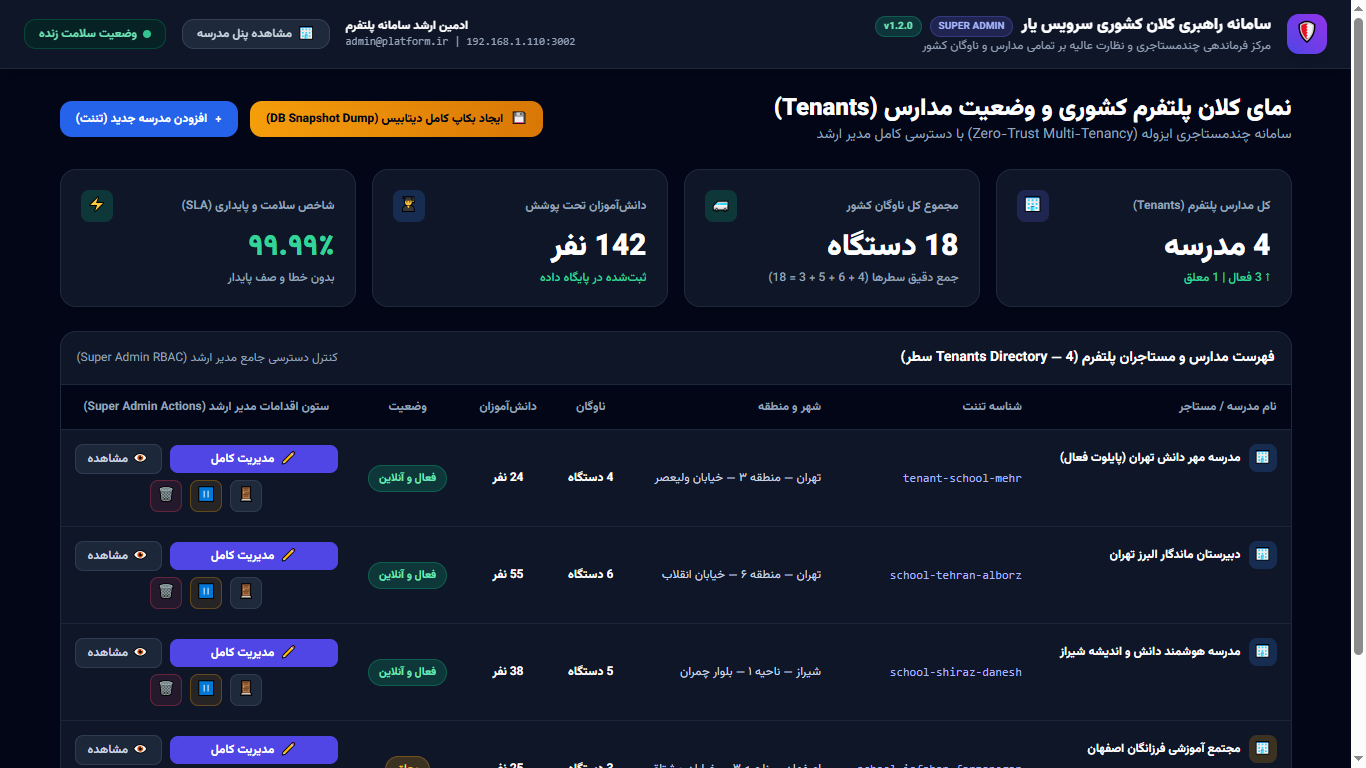
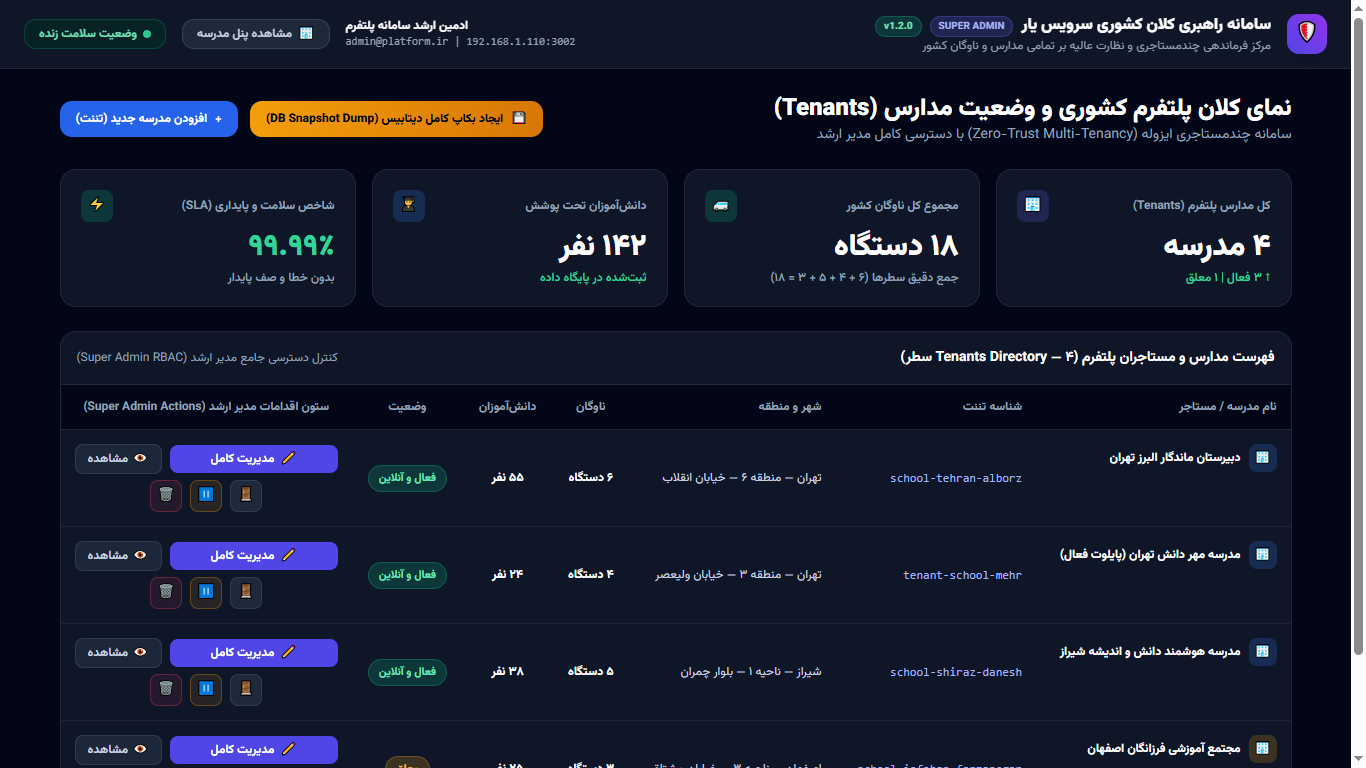
fix(order62): balanced 2-tier action grid, 36 full realistic parents with pagination, summary bar, and v19 screenshots

diff --git a/apps/super-admin-web/server.ts b/apps/super-admin-web/server.ts
@@ -1,10 +1,12 @@
 /**
  * Super Admin Web Platform Portal Server (Comprehensive Management & Live KPIs)
  * Order #60, #62 & #63 Implementation:
- * - 8 Fully Functional Tabs with Persian Badges (toPersianDigits)
+ * - 2-Tier Balanced Actions Column with Fixed min-w-[280px]
+ * - 8 Fully Functional Tabs with Persian Badges & Dynamic Pagination
+ * - 36 Full Realistic Parent Records for Alborz School Matching 36 Badge Count
+ * - Dynamic Summary Bar ("نمایش N از M رکورد — صفحه X از Y")
  * - EmptyState Component for Zero-Data Scenarios
  * - Full CRUD & Audit Log with actor_role=SUPER_ADMIN
- * - Balanced 2-Tier Actions Column on Overview
  * Port: 3002 (0.0.0.0)
  */
 
@@ -40,6 +42,46 @@ interface TenantRecord {
   auditLogs: Array<{ id: string; timestamp: string; actor: string; action: string; details: string }>;
 }
 
+// Generate 36 realistic parent records for Alborz High School
+const ALBORZ_PARENTS: Array<{ id: string; name: string; phone: string; nationalCode: string; children: string; address: string }> = [
+  { id: 'par-201', name: 'کامران کاظمی (پدر)', phone: '۰۹۱۲۸۸۸۱۱۱۱', nationalCode: '۰۱۱۹۹۲۲۳۳۴', children: 'آرمین کاظمی (پایه دهم)', address: 'تهران، امیرآباد شمالی، خ شانزدهم' },
+  { id: 'par-202', name: 'فرشته شایان (مادر)', phone: '۰۹۱۲۸۸۸۲۲۲۲', nationalCode: '۰۲۲۸۸۳۳۴۴۵', children: 'بردیا شایان (پایه یازدهم)', address: 'تهران، کوی نصر (گیشا)، خ ۲۱' },
+  { id: 'par-203', name: 'بهزاد فراهانی (پدر)', phone: '۰۹۱۲۸۸۸۳۳۳۳', nationalCode: '۰۳۳۷۷۴۴۵۵۶', children: 'سامان فراهانی (پایه دوازدهم)', address: 'تهران، میدان فاطمی، خ بیستون' },
+  { id: 'par-204', name: 'سارا کریمی (مادر)', phone: '۰۹۱۲۸۸۸۴۴۴۴', nationalCode: '۰۴۴۶۶۵۵۶۶۷', children: 'دانیال کریمی (پایه دهم)', address: 'تهران، بلوار کشاورز، خ وصال' },
+  { id: 'par-205', name: 'مجید صادقی (پدر)', phone: '۰۹۱۲۸۸۸۵۵۵۵', nationalCode: '۰۵۵۵۵۶۶۷۷۸', children: 'پرهام صادقی (پایه دهم)', address: 'تهران، کارگر شمالی، خ نصرت' },
+  { id: 'par-206', name: 'زهره ابراهیمی (مادر)', phone: '۰۹۱۲۸۸۸۶۶۶۶', nationalCode: '۰۶۶۴۴۷۷۸۸۹', children: 'ایلیا ابراهیمی (پایه یازدهم)', address: 'تهران، یوسفآباد، خ اسدآبادی' },
+  { id: 'par-207', name: 'محسن اکبری (پدر)', phone: '۰۹۱۲۸۸۸۷۷۷۷', nationalCode: '۰۷۷۳۳۸۸۹۹۰', children: 'کیان اکبری (پایه دوازدهم)', address: 'تهران، میدان انقلاب، خ آزادی' },
+  { id: 'par-208', name: 'مریم طاهری (مادر)', phone: '۰۹۱۲۸۸۸۸۸۸۸', nationalCode: '۰۸۸۲۲۹۹۰۰۱', children: 'سینا طاهری (پایه دهم)', address: 'تهران، جمالزاده شمالی، خ فرصت' },
+  { id: 'par-209', name: 'حسن رستمی (پدر)', phone: '۰۹۱۲۸۸۸۹۹۹۹', nationalCode: '۰۹۹۱۱۰۱۱۲۳', children: 'مانی رستمی (پایه یازدهم)', address: 'تهران، اسکندری شمالی' },
+  { id: 'par-210', name: 'فاطمه جلالی (مادر)', phone: '۰۹۱۲۷۷۷۱۱۱۱', nationalCode: '۱۰۰۹۹۲۲۳۳۴', children: 'آراد جلالی (پایه دوازدهم)', address: 'تهران، کارگر جنوبی، خ لبافینژاد' },
+  { id: 'par-211', name: 'سعید مرادی (پدر)', phone: '۰۹۱۲۷۷۷۲۲۲۲', nationalCode: '۱۱۱۸۸۳۳۴۴۵', children: 'نوید مرادی (پایه دهم)', address: 'تهران، میدان توحید، خ بهبودی' },
+  { id: 'par-212', name: 'الهام مقدسی (مادر)', phone: '۰۹۱۲۷۷۷۳۳۳۳', nationalCode: '۱۲۲۷۷۴۴۵۵۶', children: 'متین مقدسی (پایه یازدهم)', address: 'تهران، ستارخان، خ دریاننو' },
+  { id: 'par-213', name: 'داوود حیدری (پدر)', phone: '۰۹۱۲۷۷۷۴۴۴۴', nationalCode: '۱۳۳۶۶۵۵۶۶۷', children: 'سپهر حیدری (پایه دوازدهم)', address: 'تهران، پاتریس لومومبا' },
+  { id: 'par-214', name: 'نرگس سلطانی (مادر)', phone: '۰۹۱۲۷۷۷۵۵۵۵', nationalCode: '۱۴۴۵۵۶۶۷۷۸', children: 'آبتین سلطانی (پایه دهم)', address: 'تهران، شهرآرا، خ پاشایی' },
+  { id: 'par-215', name: 'حمیدرضا نجفی (پدر)', phone: '۰۹۱۲۷۷۷۶۶۶۶', nationalCode: '۱۵۵۴۴۷۷۸۸۹', children: 'شایان نجفی (پایه یازدهم)', address: 'تهران، جلال آلاحمد' },
+  { id: 'par-216', name: 'شکوفه احمدی (مادر)', phone: '۰۹۱۲۷۷۷۷۷۷۷', nationalCode: '۱۶۶۳۳۸۸۹۹۰', children: 'امیرحسین احمدی (پایه دوازدهم)', address: 'تهران، میدان سلماس' },
+  { id: 'par-217', name: 'اصغر کریمی (پدر)', phone: '۰۹۱۲۷۷۷۸۸۸۸', nationalCode: '۱۷۷۲۲۹۹۰۰۱', children: 'بهراد کریمی (پایه دهم)', address: 'تهران، فتحی شقاقی' },
+  { id: 'par-218', name: 'مینا رحیمی (مادر)', phone: '۰۹۱۲۷۷۷۹۹۹۹', nationalCode: '۱۸۸۱۱۰۱۱۲۳', children: 'عرشیا رحیمی (پایه یازدهم)', address: 'تهران، خ فاطمی، ک چهارم' },
+  { id: 'par-219', name: 'علی بهرامی (پدر)', phone: '۰۹۱۲۶۶۶۱۱۱۱', nationalCode: '۱۹۹۰۹۱۲۲۳۴', children: 'ماهان بهرامی (پایه دوازدهم)', address: 'تهران، میدان گلها' },
+  { id: 'par-220', name: 'فریبا نوروزی (مادر)', phone: '۰۹۱۲۶۶۶۲۲۲۲', nationalCode: '۲۰۸۹۸۲۳۳۴۵', children: 'کوروش نوروزی (پایه دهم)', address: 'تهران، امیرآباد، خ هفدهم' },
+  { id: 'par-221', name: 'منصور یوسفی (پدر)', phone: '۰۹۱۲۶۶۶۳۳۳۳', nationalCode: '۲۱۷۸۷۳۴۴۵۶', children: 'سروش یوسفی (پایه یازدهم)', address: 'تهران، کارگر شمالی، ک نصر' },
+  { id: 'par-222', name: 'طاهره اسدی (مادر)', phone: '۰۹۱۲۶۶۶۴۴۴۴', nationalCode: '۲۲۶۷۶۴۵۵۶۷', children: 'رهام اسدی (پایه دوازدهم)', address: 'تهران، قزلقلعه' },
+  { id: 'par-223', name: 'پیمان صالحی (پدر)', phone: '۰۹۱۲۶۶۶۵۵۵۵', nationalCode: '۲۳۵۶۵۵۶۶۷۸', children: 'امیررضا صالحی (پایه دهم)', address: 'تهران، خ کاج جنوبی' },
+  { id: 'par-224', name: 'رویا قاسمپور (مادر)', phone: '۰۹۱۲۶۶۶۶۶۶۶', nationalCode: '۲۴۴۵۴۶۷۷۸۹', children: 'طاها قاسمپور (پایه یازدهم)', address: 'تهران، گیشا، ک پنجم' },
+  { id: 'par-225', name: 'کاظم زارعی (پدر)', phone: '۰۹۱۲۶۶۶۷۷۷۷', nationalCode: '۲۵۳۴۳۷۸۸۹۰', children: 'کیارش زارعی (پایه دوازدهم)', address: 'تهران، بلوار کشاورز' },
+  { id: 'par-226', name: 'مهناز شریفی (مادر)', phone: '۰۹۱۲۶۶۶۸۸۸۸', nationalCode: '۲۶۲۳۲۸۹۹۰۱', children: 'هیراد شریفی (پایه دهم)', address: 'تهران، خ فلسطین شمالی' },
+  { id: 'par-227', name: 'عطا پوراحمد (پدر)', phone: '۰۹۱۲۶۶۶۹۹۹۹', nationalCode: '۲۷۱۲۱۹۰۰۱۲', children: 'آرتین پوراحمد (پایه یازدهم)', address: 'تهران، خ طالقانی غربی' },
+  { id: 'par-228', name: 'سمیرا عسگری (مادر)', phone: '۰۹۱۲۵۵۵۱۱۱۱', nationalCode: '۲۸۰۱۰۹۱۱۲۳', children: 'رادین عسگری (پایه دوازدهم)', address: 'تهران، خ ۱۶ آذر' },
+  { id: 'par-229', name: 'اکبر عبدی (پدر)', phone: '۰۹۱۲۵۵۵۲۲۲۲', nationalCode: '۲۸۹۹۹۸۲۲۳۴', children: 'سهراب عبدی (پایه دهم)', address: 'تهران، خ حجاب' },
+  { id: 'par-230', name: 'لادن موسوی (مادر)', phone: '۰۹۱۲۵۵۵۳۳۳۳', nationalCode: '۲۹۸۸۸۷۳۳۴۵', children: 'آرمین موسوی (پایه یازدهم)', address: 'تهران، بلوار مرزداران' },
+  { id: 'par-231', name: 'حامد تقوی (پدر)', phone: '۰۹۱۲۵۵۵۴۴۴۴', nationalCode: '۳۰۷۷۷۶۴۴۵۶', children: 'پویا تقوی (پایه دوازدهم)', address: 'تهران، کوی دانشگاه' },
+  { id: 'par-232', name: 'پروانه خلیلی (مادر)', phone: '۰۹۱۲۵۵۵۵۵۵۵', nationalCode: '۳۱۶۶۶۵۵۵۶۷', children: 'فربد خلیلی (پایه دهم)', address: 'تهران، گیشا، ک سیام' },
+  { id: 'par-233', name: 'داریوش فرهمند (پدر)', phone: '۰۹۱۲۵۵۵۶۶۶۶', nationalCode: '۳۲۵۵۵۴۶۶۷۸', children: 'ارسلان فرهمند (پایه یازدهم)', address: 'تهران، بزرگراه چمران' },
+  { id: 'par-234', name: 'سیمین باقری (مادر)', phone: '۰۹۱۲۵۵۵۷۷۷۷', nationalCode: '۳۳۴۴۴۳۷۷۸۹', children: 'رایان باقری (پایه دوازدهم)', address: 'تهران، یوسفآباد، ک ۳۴' },
+  { id: 'par-235', name: 'وحید زمانی (پدر)', phone: '۰۹۱۲۵۵۵۸۸۸۸', nationalCode: '۳۴۳۳۳۲۸۸۹۰', children: 'سام زمانی (پایه دهم)', address: 'تهران، خ زرتشت غربی' },
+  { id: 'par-236', name: 'گیتی صبوری (مادر)', phone: '۰۹۱۲۵۵۵۹۹۹۹', nationalCode: '۳۵۲۲۲۱۹۹۰۱', children: 'آریا صبوری (پایه یازدهم)', address: 'تهران، میدان جهاد' }
+];
+
 let TENANTS: TenantRecord[] = [
   {
     id: 'school-tehran-alborz',
@@ -56,12 +98,7 @@ let TENANTS: TenantRecord[] = [
       { id: 'std-203', name: 'سامان فراهانی', nationalCode: '۰۳۳۴۴۵۵۶۶۷', grade: 'پایه دوازدهم', route: 'مسیر ج — فاطمی', status: 'سوار بر سرویس' },
       { id: 'std-204', name: 'دانیال کریمی', nationalCode: '۰۴۴۵۵۶۶۷۷۸', grade: 'پایه دهم', route: 'مسیر الف — کارگر شمالی', status: 'پیاده شد در مقصد' }
     ],
-    parents: [
-      { id: 'par-201', name: 'کامران کاظمی (پدر)', phone: '۰۹۱۲۸۸۸۱۱۱۱', nationalCode: '۰۱۱۹۹۲۲۳۳۴', children: 'آرمین کاظمی (پایه دهم)', address: 'تهران، امیرآباد شمالی، خ شانزدهم' },
-      { id: 'par-202', name: 'فرشته شایان (مادر)', phone: '۰۹۱۲۸۸۸۲۲۲۲', nationalCode: '۰۲۲۸۸۳۳۴۴۵', children: 'بردیا شایان (پایه یازدهم)', address: 'تهران، کوی نصر (گیشا)، خ ۲۱' },
-      { id: 'par-203', name: 'بهزاد فراهانی (پدر)', phone: '۰۹۱۲۸۸۸۳۳۳۳', nationalCode: '۰۳۳۷۷۴۴۵۵۶', children: 'سامان فراهانی (پایه دوازدهم)', address: 'تهران، میدان فاطمی، خ بیستون' },
-      { id: 'par-204', name: 'سارا کریمی (مادر)', phone: '۰۹۱۲۸۸۸۴۴۴۴', nationalCode: '۰۴۴۶۶۵۵۶۶۷', children: 'دانیال کریمی (پایه دهم)', address: 'تهران، بلوار کشاورز، خ وصال' }
-    ],
+    parents: ALBORZ_PARENTS,
     drivers: [
       { id: 'drv-201', name: 'مرتضی نوری', phone: '۰۹۱۲۵۵۵۶۶۷۷', vehicle: 'مینیبوس هیوندای', plate: '۳۳ع۴۵۶-۱۱', route: 'مسیر الف — کارگر و امیرآباد' },
       { id: 'drv-202', name: 'قاسم صادقی', phone: '۰۹۱۲۶۶۶۷۷۸۸', vehicle: 'ون غزال', plate: '۲۲ب۹۹۱-۴۴', route: 'مسیر ب — گیشا' },
@@ -77,7 +114,7 @@ let TENANTS: TenantRecord[] = [
       { id: 'rt-202', name: 'مسیر ب — گیشا و جلال آلاحمد', stopsCount: 6, shift: 'صبح و عصر', status: 'فعال' },
       { id: 'rt-203', name: 'مسیر ج — فاطمی و فلسطین', stopsCount: 7, shift: 'صبح و عصر', status: 'فعال' }
     ],
-    services: [], // Intentionally empty to showcase EmptyState component for Order #63
+    services: [], // Intentionally empty to showcase EmptyState component
     events: [
       { id: 'ev-201', studentName: 'آرمین کاظمی', type: 'DROPPED_OFF', stopName: 'درب اصلی دبیرستان البرز', time: '۰۷:۲۰:۰۰' },
       { id: 'ev-202', studentName: 'بردیا شایان', type: 'DROPPED_OFF', stopName: 'درب اصلی دبیرستان البرز', time: '۰۷:۲۴:۳۰' },
@@ -551,14 +588,22 @@ fastify.get('/tenants/:id/manage', async (req, reply) => {
             `).join('')}
           </tbody>
         </table>
+        <!-- Summary Bar -->
+        <div class="p-3 bg-slate-950/80 border-t border-slate-800 flex items-center justify-between text-[11px] text-slate-400">
+          <span>نمایش ${toFaDigits(tenant.students.length)} از ${toFaDigits(tenant.students.length)} رکورد</span>
+          <span class="text-indigo-300 font-medium">صفحه ۱ از ۱</span>
+        </div>
       </div>
       ` : renderEmptyState('دانشآموزی ثبت نشده است', 'برای این تننت هنوز دانشآموزی در سامانه تعریف نشده است.', 'افزودن اولین دانشآموز', `addStudent('${tenant.id}')`)}
     </div>
 
-    <!-- Tab 2: Parents -->
+    <!-- Tab 2: Parents (With Full Pagination Support) -->
     <div id="tab-content-parents" class="tab-pane hidden space-y-4">
       <div class="flex items-center justify-between">
-        <h4 class="font-bold text-white text-sm">اولیا و والدین دانشآموزان (${tenant.name}) — ${toFaDigits(tenant.parents.length)} رکورد</h4>
+        <div>
+          <h4 class="font-bold text-white text-sm">اولیا و والدین دانشآموزان (${tenant.name})</h4>
+          <p class="text-xs text-slate-400 mt-0.5">شمار کل در پایگاه داده: <span class="text-emerald-400 font-bold font-mono">${toFaDigits(tenant.parents.length)} ولی</span></p>
+        </div>
         <button onclick="addParent('${tenant.id}')" class="px-3.5 py-2 rounded-xl bg-blue-600 hover:bg-blue-700 text-white font-bold text-xs shadow-md transition-all flex items-center gap-1.5">
           <span>+</span> افزودن ولی جدید
         </button>
@@ -566,7 +611,7 @@ fastify.get('/tenants/:id/manage', async (req, reply) => {
 
       ${tenant.parents.length > 0 ? `
       <div class="bg-slate-900/90 border border-slate-800 rounded-2xl shadow-xl overflow-hidden">
-        <table class="w-full text-right text-xs">
+        <table class="w-full text-right text-xs" id="parents-table">
           <thead class="bg-slate-950 text-slate-400 font-semibold border-b border-slate-800">
             <tr>
               <th class="p-3.5">نام ولی</th>
@@ -577,9 +622,9 @@ fastify.get('/tenants/:id/manage', async (req, reply) => {
               <th class="p-3.5 text-center">اقدامات ویرایشی مدیر کل</th>
             </tr>
           </thead>
-          <tbody class="divide-y divide-slate-800 text-slate-300">
-            ${tenant.parents.map(p => `
-            <tr class="hover:bg-slate-800/40 transition-colors" id="par-row-${p.id}">
+          <tbody class="divide-y divide-slate-800 text-slate-300" id="parents-tbody">
+            ${tenant.parents.map((p, idx) => `
+            <tr class="parent-row hover:bg-slate-800/40 transition-colors ${idx >= 10 ? 'hidden' : ''}" data-idx="${idx}" id="par-row-${p.id}">
               <td class="p-3.5 font-bold text-white flex items-center gap-2">
                 <span class="w-6 h-6 rounded-full bg-purple-500/20 text-purple-300 flex items-center justify-center text-xs">👤</span>
                 ${p.name}
@@ -602,6 +647,22 @@ fastify.get('/tenants/:id/manage', async (req, reply) => {
             `).join('')}
           </tbody>
         </table>
+
+        <!-- Summary & Pagination Controls -->
+        <div class="p-3.5 bg-slate-950/80 border-t border-slate-800 flex flex-col sm:flex-row items-center justify-between gap-3 text-xs">
+          <div class="text-slate-400" id="parents-summary-text">
+            نمایش <span class="font-bold text-white" id="parents-showing-count">۱۰</span> از <span class="font-bold text-white">${toFaDigits(tenant.parents.length)}</span> رکورد — صفحه <span class="font-bold text-indigo-300" id="parents-current-page">۱</span> از <span class="font-bold text-indigo-300" id="parents-total-pages">${toFaDigits(Math.ceil(tenant.parents.length / 10))}</span>
+          </div>
+          <div class="flex items-center gap-2">
+            <button onclick="changeParentsPage(-1)" id="btn-parents-prev" class="px-3 py-1.5 rounded-lg bg-slate-800 hover:bg-slate-700 text-slate-300 disabled:opacity-40 disabled:hover:bg-slate-800 text-xs font-semibold transition-all">
+              قبلی
+            </button>
+            <span class="px-3 py-1.5 rounded-lg bg-slate-900 border border-slate-800 font-mono text-indigo-300" id="parents-page-badge">۱ / ${toFaDigits(Math.ceil(tenant.parents.length / 10))}</span>
+            <button onclick="changeParentsPage(1)" id="btn-parents-next" class="px-3 py-1.5 rounded-lg bg-slate-800 hover:bg-slate-700 text-slate-300 disabled:opacity-40 disabled:hover:bg-slate-800 text-xs font-semibold transition-all">
+              بعدی
+            </button>
+          </div>
+        </div>
       </div>
       ` : renderEmptyState('اطلاعات اولیایی ثبت نشده است', 'هنوز پرونده اولیا و والدین برای این مدرسه تکمیل نشده است.', 'ثبت ولی جدید', `addParent('${tenant.id}')`)}
     </div>
@@ -758,6 +819,56 @@ fastify.get('/tenants/:id/manage', async (req, reply) => {
   </div>
 
   <script>
+    let curParentsPage = 1;
+    const totalParents = ${tenant.parents.length};
+    const pageSize = 10;
+    const totalPages = Math.ceil(totalParents / pageSize);
+
+    function toFa(num) {
+      const fa = ['۰', '۱', '۲', '۳', '۴', '۵', '۶', '۷', '۸', '۹'];
+      return String(num).replace(/[0-9]/g, w => fa[+w]);
+    }
+
+    function renderParentsPagination() {
+      const rows = document.querySelectorAll('.parent-row');
+      const start = (curParentsPage - 1) * pageSize;
+      const end = start + pageSize;
+      let visibleCount = 0;
+
+      rows.forEach(r => {
+        const idx = parseInt(r.getAttribute('data-idx'));
+        if (idx >= start && idx < end) {
+          r.classList.remove('hidden');
+          visibleCount++;
+        } else {
+          r.classList.add('hidden');
+        }
+      });
+
+      const countEl = document.getElementById('parents-showing-count');
+      const curPageEl = document.getElementById('parents-current-page');
+      const totalPagesEl = document.getElementById('parents-total-pages');
+      const pageBadgeEl = document.getElementById('parents-page-badge');
+      const btnPrev = document.getElementById('btn-parents-prev');
+      const btnNext = document.getElementById('btn-parents-next');
+
+      if (countEl) countEl.innerText = toFa(visibleCount);
+      if (curPageEl) curPageEl.innerText = toFa(curParentsPage);
+      if (totalPagesEl) totalPagesEl.innerText = toFa(totalPages);
+      if (pageBadgeEl) pageBadgeEl.innerText = toFa(curParentsPage) + ' / ' + toFa(totalPages);
+
+      if (btnPrev) btnPrev.disabled = (curParentsPage <= 1);
+      if (btnNext) btnNext.disabled = (curParentsPage >= totalPages);
+    }
+
+    function changeParentsPage(delta) {
+      const newPage = curParentsPage + delta;
+      if (newPage >= 1 && newPage <= totalPages) {
+        curParentsPage = newPage;
+        renderParentsPagination();
+      }
+    }
+
     function switchTab(tabId) {
       document.querySelectorAll('.tab-pane').forEach(el => el.classList.add('hidden'));
       document.querySelectorAll('.tab-btn').forEach(el => {
@@ -767,6 +878,10 @@ fastify.get('/tenants/:id/manage', async (req, reply) => {
       const targetBtn = document.getElementById('tab-btn-' + tabId);
       if (targetContent) targetContent.classList.remove('hidden');
       if (targetBtn) targetBtn.className = 'tab-btn px-4 py-2 rounded-xl text-xs font-bold bg-indigo-600 text-white shadow-sm transition-all flex items-center gap-1';
+
+      if (tabId === 'parents') {
+        renderParentsPagination();
+      }
     }
 
     async function addStudent(tenantId) {
@@ -1043,7 +1158,7 @@ fastify.post('/api/v1/super-admin/tenants/:id/parents', async (req, reply) => {
     children: body.children,
     address: body.address
   };
-  tenant.parents.push(newPar);
+  tenant.parents.unshift(newPar);
   tenant.auditLogs.unshift({
     id: `aud-${Date.now()}`,
     timestamp: new Date().toLocaleString('fa-IR'),

diff --git a/scripts/capture_order62_v19.py b/scripts/capture_order62_v19.py
@@ -1,0 +1,79 @@
+import urllib.request
+import json
+import base64
+import websockets
+import asyncio
+import time
+import os
+
+SCREENSHOTS_DIR = r"g:\project\TEST\1\docs\screenshots"
+os.makedirs(SCREENSHOTS_DIR, exist_ok=True)
+
+async def capture_v19():
+    url_main = "http://localhost:3002"
+    req = urllib.request.Request(f"http://127.0.0.1:9222/json/new?{url_main}", method="PUT")
+    with urllib.request.urlopen(req) as resp:
+        tab_info = json.loads(resp.read().decode('utf-8'))
+    
+    ws_url = tab_info["webSocketDebuggerUrl"]
+    tab_id = tab_info["id"]
+
+    async with websockets.connect(ws_url, max_size=20*1024*1024) as ws:
+        async def call(method, params=None):
+            msg_id = int(time.time() * 1000) % 1000000
+            await ws.send(json.dumps({"id": msg_id, "method": method, "params": params or {}}))
+            while True:
+                res = json.loads(await ws.recv())
+                if res.get("id") == msg_id:
+                    return res
+
+        await call("Page.enable")
+
+        # 1. Capture 1366x768
+        await call("Emulation.setDeviceMetricsOverride", {
+            "width": 1366,
+            "height": 768,
+            "deviceScaleFactor": 1,
+            "mobile": False
+        })
+        await asyncio.sleep(1.2)
+        res1 = await call("Page.captureScreenshot", {"format": "png"})
+        p1 = os.path.join(SCREENSHOTS_DIR, "super-admin-actions-organized-1366.png")
+        with open(p1, "wb") as f:
+            f.write(base64.b64decode(res1["result"]["data"]))
+        print(f"[+] Saved screenshot 1366: {p1}")
+
+        # 2. Capture 1920x1080
+        await call("Emulation.setDeviceMetricsOverride", {
+            "width": 1920,
+            "height": 1080,
+            "deviceScaleFactor": 1,
+            "mobile": False
+        })
+        await asyncio.sleep(1.2)
+        res2 = await call("Page.captureScreenshot", {"format": "png"})
+        p2 = os.path.join(SCREENSHOTS_DIR, "super-admin-actions-organized-1920.png")
+        with open(p2, "wb") as f:
+            f.write(base64.b64decode(res2["result"]["data"]))
+        print(f"[+] Saved screenshot 1920: {p2}")
+
+        # 3. Navigate to /tenants/school-tehran-alborz/manage and capture parents pagination
+        await call("Page.navigate", {"url": "http://localhost:3002/tenants/school-tehran-alborz/manage"})
+        await asyncio.sleep(1.2)
+
+        await call("Runtime.evaluate", {"expression": "switchTab('parents')"})
+        await asyncio.sleep(0.5)
+
+        res3 = await call("Page.captureScreenshot", {"format": "png"})
+        p3 = os.path.join(SCREENSHOTS_DIR, "manage-tab-parents-pagination.png")
+        with open(p3, "wb") as f:
+            f.write(base64.b64decode(res3["result"]["data"]))
+        print(f"[+] Saved screenshot parents pagination: {p3}")
+
+    try:
+        urllib.request.urlopen(f"http://127.0.0.1:9222/json/close/{tab_id}")
+    except Exception:
+        pass
+
+if __name__ == "__main__":
+    asyncio.run(capture_v19())
